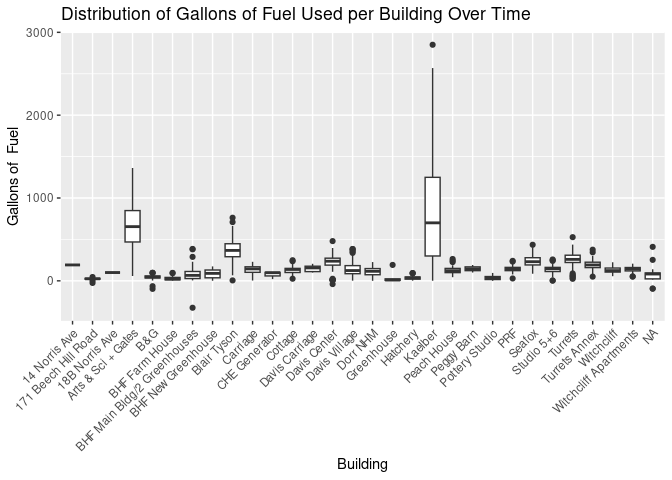
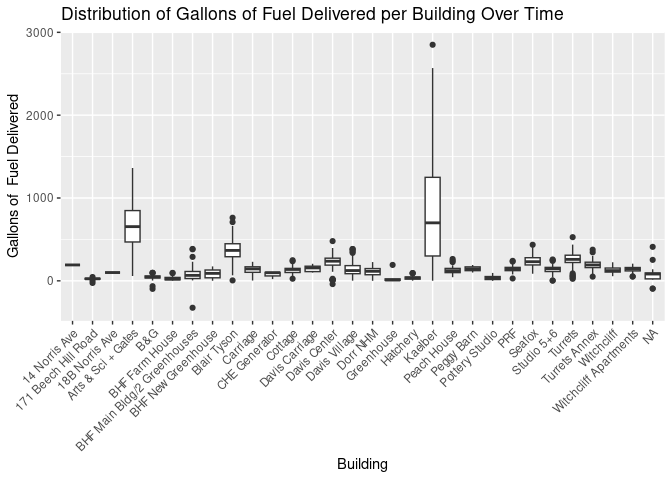
Make changes according to our proposal review

Changed region(s): [[0.4375, 0.0, 0.8438, 0.0625], [0.0, 0.1875, 0.0312, 0.5312]]

diff --git a/proposal/proposal.md b/proposal/proposal.md
@@ -117,8 +117,8 @@ fuels |>
 ggplot(aes(x = Building, y = Gallons)) +
   geom_boxplot() +
   labs(x = "Building",
-       y = "Gallons of  Fuel",
-       title = "Distribution of Gallons of Fuel Used per Building Over Time") +
+       y = "Gallons of  Fuel Delivered",
+       title = "Distribution of Gallons of Fuel Delivered per Building Over Time") +
   scale_x_discrete(guide = guide_axis(angle = 45))
 ```
 
@@ -138,7 +138,8 @@ fuels |>
 ![](proposal_files/figure-gfm/graphs-2.png)<!-- -->
 
 ``` r
-fuels |>
+# This should probably be total gallons per fuel type
+fuels |> 
 ggplot(aes(x = Fuel_type)) +
   geom_bar() +
   scale_x_discrete(guide = guide_axis(angle = 45)) +
@@ -150,6 +151,7 @@ ggplot(aes(x = Fuel_type)) +
 ![](proposal_files/figure-gfm/graphs-3.png)<!-- -->
 
 ``` r
+# The negative values are to compensate for previous overestimations
 ggplot(fuels, aes(x = Delivery_date, y = Gallons)) +
   geom_point() +
   scale_x_date(guide = guide_axis(angle = 45)) +
@@ -161,8 +163,10 @@ ggplot(fuels, aes(x = Delivery_date, y = Gallons)) +
 ![](proposal_files/figure-gfm/graphs-4.png)<!-- -->
 
 Data Visualizations that will be useful: - Total Gallons of fuel per
-building - Total Gallons of fuel per metre squared of each building -
-Total fuel consumption over time and projections
+building - Total Gallons of fuel per foot squared of each building -
+Total fuel consumption over time - Price increase of different fuel over
+time - Comparing the cost of this fuel to overall college spending - How
+the amount of each type of fuel changes over the years
 
 ## 4. Data Ethics Review
 
